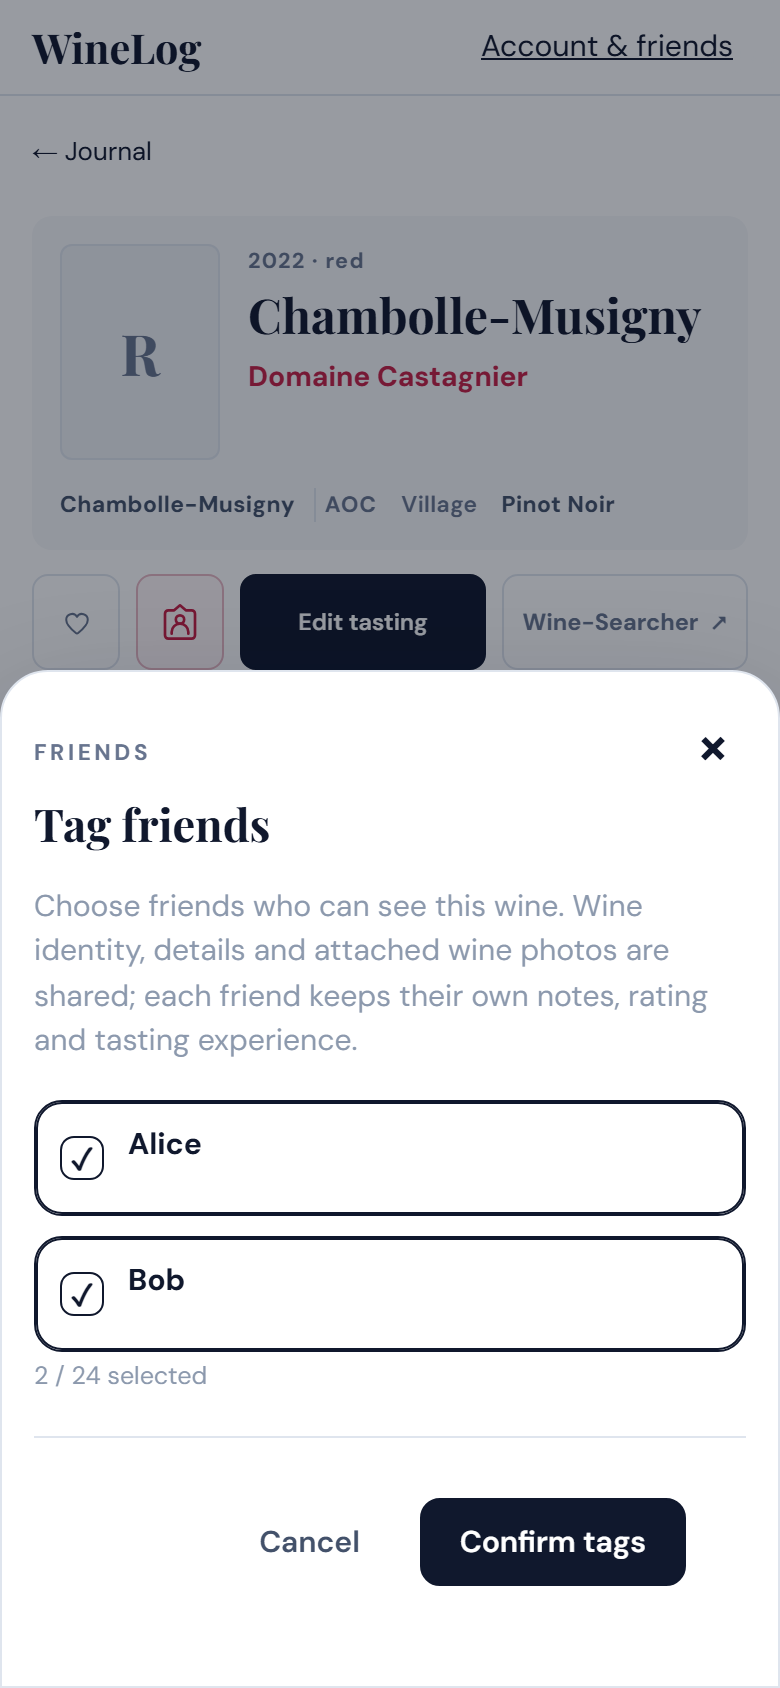
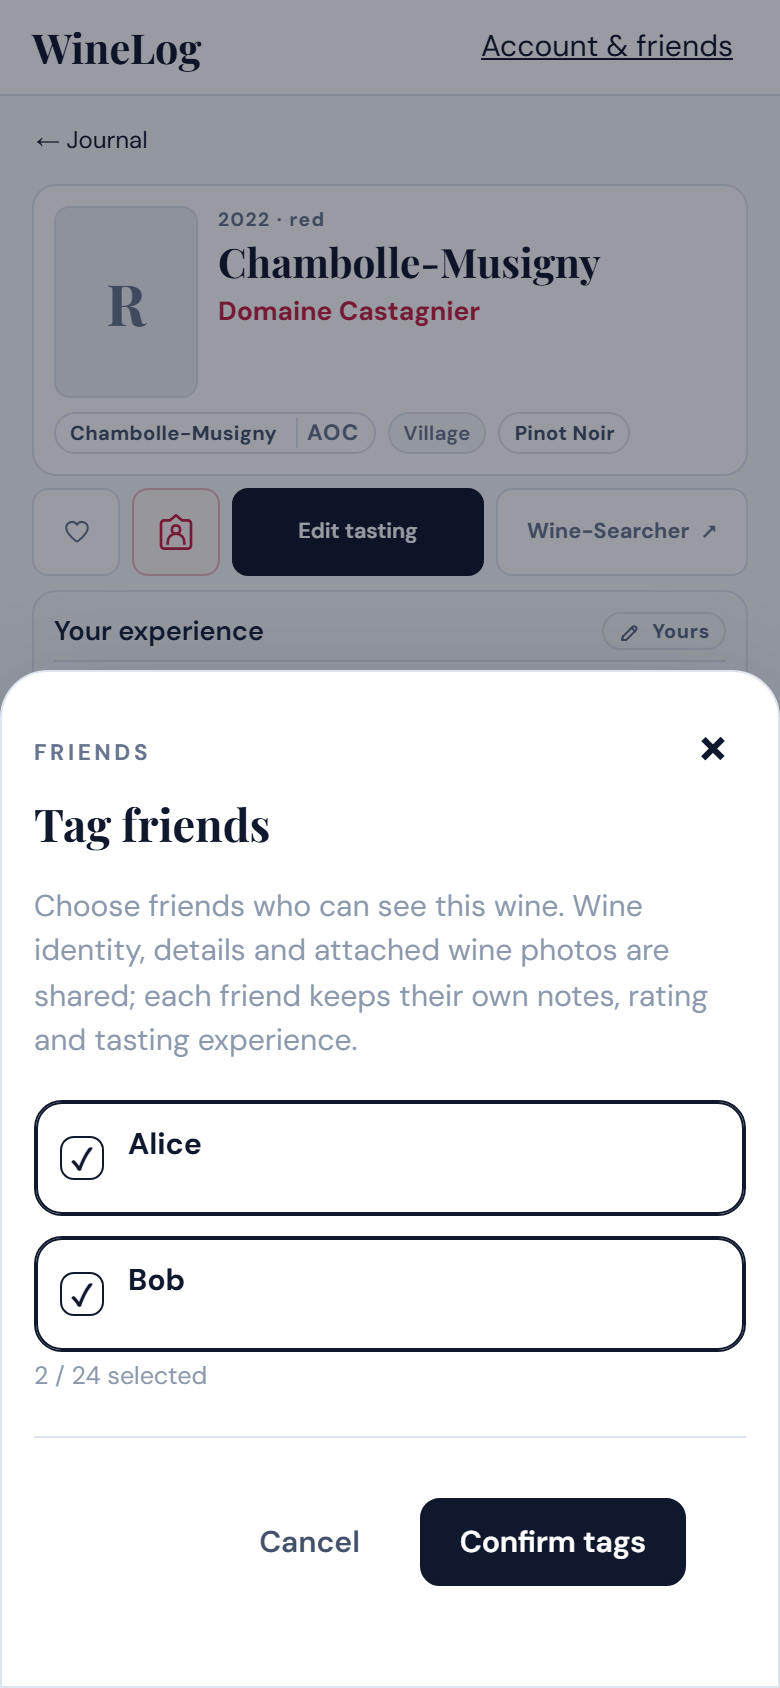
Restore compact wine detail layout from c72632f

diff --git a/src/wineDetailCompact.css b/src/wineDetailCompact.css
@@ -1,38 +1,35 @@
-/* A continuous reading surface gives the mobile facts room without adding
-   another padded card around every section. Controls retain touch targets. */
+/* Mobile wine details use a compact reading layout. Keep controls large enough
+   to tap, and recover space from the header, card padding and fact-row gaps. */
 @media(max-width:700px){
  body:has(main .wine-detail) .topbar{height:calc(48px + var(--app-safe-top,0px))}
- main:has(.wine-detail){padding-top:8px;background:var(--paper)}
- .wine-detail>.back-pill{display:inline-flex;align-items:center;min-height:40px;margin-bottom:12px;padding:4px 0;border:0;background:transparent;font-size:.86rem}
- .wine-detail .wine-identity{padding:14px;border:0;background:var(--ground);border-radius:10px}
- .wine-detail .wine-identity .page-header{gap:14px}
- .wine-detail .wine-identity .page-header-body>h1{font-size:1.6rem;line-height:1.16}
- .wine-detail .wine-identity .page-header-body>.eyebrow{margin-bottom:6px;font-size:.72rem;letter-spacing:.06em}
- .wine-detail .wine-identity .detail-producer{margin:7px 0 0;font-size:.94rem;line-height:1.4}
- .wine-detail .wine-identity .detail-media{width:80px;gap:5px}
+ main:has(.wine-detail){padding-top:4px}
+ .wine-detail>.back-pill{display:inline-flex;align-items:center;min-height:36px;margin-bottom:4px;padding:4px 2px;border:0;background:transparent;font-size:.8rem}
+ .wine-detail .wine-identity{padding:10px;border-radius:12px}
+ .wine-detail .wine-identity .page-header{gap:10px}
+ .wine-detail .wine-identity .page-header-body>h1{font-size:1.35rem;line-height:1.12}
+ .wine-detail .wine-identity .page-header-body>.eyebrow{margin-bottom:3px;font-size:.64rem;letter-spacing:.08em}
+ .wine-detail .wine-identity .detail-producer{margin:4px 0 0;font-size:.88rem;line-height:1.3}
+ .wine-detail .wine-identity .detail-media{width:72px;gap:3px}
  .wine-detail .wine-identity .detail-bottle,
- .wine-detail .wine-identity .detail-media .detail-photo{height:108px}
+ .wine-detail .wine-identity .detail-media .detail-photo{height:96px}
  .wine-detail .wine-identity .detail-bottle,
- .wine-detail .wine-identity .detail-media .detail-photo-button{width:80px;min-height:0;border-radius:6px}
- .wine-detail .detail-photo-count{font-size:.72rem}
- .wine-detail .wine-identity>.detail-pills{margin-top:14px;gap:8px 12px}
- .wine-detail .detail-pills>span{padding:0;border:0;border-radius:0;background:transparent;font-size:.76rem;line-height:1.5}
- .wine-detail .wine-actions{grid-template-columns:44px 44px repeat(2,minmax(0,1fr));gap:8px;margin-top:12px}
+ .wine-detail .wine-identity .detail-media .detail-photo-button{width:72px;min-height:0;border-radius:8px}
+ .wine-detail .detail-photo-count{font-size:.64rem}
+ .wine-detail .wine-identity>.detail-pills{margin-top:7px;gap:4px 6px}
+ .wine-detail .detail-pills>span{padding:2px 7px;font-size:.67rem}
+ .wine-detail .wine-actions{grid-template-columns:44px 44px repeat(2,minmax(0,1fr));gap:6px;margin-top:6px}
  .wine-detail .wine-actions>button,
- .wine-detail .wine-actions>a{min-height:48px;padding:6px 4px;border-radius:8px;font-size:.78rem;line-height:1.3}
+ .wine-detail .wine-actions>a{min-height:44px;padding:5px 4px;border-radius:8px;font-size:.72rem;line-height:1.2}
  .wine-detail .detail-favorite-label,
  .wine-detail .detail-search-prefix{display:none}
  .wine-detail.shared-wine-detail .wine-actions{grid-template-columns:44px 44px minmax(0,1fr)}
- .wine-detail>.detail-section{margin-top:24px;padding:0;border:0;border-radius:0;background:transparent}
- .wine-detail .detail-section>.section-label{margin-bottom:10px;font-family:'Playfair Display',serif;font-size:1.2rem;line-height:1.3}
- .wine-detail .detail-section>.section-label::after{display:none}
- .wine-detail .section-label .provenance-chip{margin-left:auto;padding:0;border:0;background:transparent}
- .wine-detail dl.detail-facts{margin:0}
- .wine-detail dl.detail-facts>div{display:grid;grid-template-columns:minmax(0,.9fr) minmax(0,1.1fr);padding:7px 0;gap:12px;line-height:1.45}
- .wine-detail dl.detail-facts dt{font-size:.82rem;letter-spacing:0;text-transform:none}
- .wine-detail dl.detail-facts dd{font-size:.9rem;text-align:left}
- .wine-detail dl.detail-facts>.detail-fact-paired{display:flex;gap:4px 8px}
- .wine-detail dl.detail-facts>.detail-fact-paired dd{text-align:right}
- .wine-detail .detail-experience-empty{margin:0;line-height:1.5}
- .wine-detail .detail-section .detail-experience-notes{margin:12px 0 0;padding-top:12px;font-family:inherit;font-size:.94rem;line-height:1.55}
+ .wine-detail>.detail-section{margin-top:7px;padding:10px;border-radius:12px}
+ .wine-detail .detail-section>.section-label{margin-bottom:5px;font-size:.9rem}
+ .wine-detail .section-label .provenance-chip{padding:2px 7px}
+ .wine-detail dl.detail-facts{margin:4px 0 0}
+ .wine-detail dl.detail-facts>div{padding:3px 0;line-height:1.4}
+ .wine-detail dl.detail-facts dt{font-size:.7rem;letter-spacing:.02em}
+ .wine-detail dl.detail-facts dd{font-size:.84rem}
+ .wine-detail .detail-experience-empty{margin:4px 0 0}
+ .wine-detail .detail-section .detail-experience-notes{margin:7px 0 0;padding-top:7px;font-size:.94rem;line-height:1.4}
 }

diff --git a/tests/e2e/wine-detail-layout.spec.ts b/tests/e2e/wine-detail-layout.spec.ts
@@ -48,6 +48,9 @@ for(const role of ['owner','member'])for(const route of ['/wines/layout-wine','/
    });
    expect(contained).toBe(true);
    if(width<700){
+    const factBounds=(await facts.boundingBox())!;
+    const navBounds=(await page.getByRole('navigation',{name:'Mobile navigation'}).boundingBox())!;
+    expect(factBounds.y+factBounds.height).toBeLessThan(navBounds.y);
     const actions=await page.locator('.wine-actions>button,.wine-actions>a').evaluateAll(items=>items.map(item=>({top:item.getBoundingClientRect().top,height:item.getBoundingClientRect().height})));
     expect(new Set(actions.map(action=>action.top)).size).toBe(1);
     expect(actions.every(action=>action.height>=44)).toBe(true);

diff --git a/docs/mockups/compact-wine-detail.md b/docs/mockups/compact-wine-detail.md
@@ -2,7 +2,7 @@
 
 Screenshots of the implemented page at a 390 × 844 mobile viewport, using a member account, sample wine data and the no-photo placeholder. The same layout applies to owner accounts and received wines. The reference has been manually confirmed, so the LWIN review controls are hidden.
 
-The mobile page uses a continuous reading surface, larger text, and space between sections, following the comfortable spacing of the supplied reference. Removing separate padded cards saves space without squeezing the text. Type/Alcohol and LWIN7/LWIN11 each share a row. Actions retain accessible touch targets and safe-area spacing.
+The mobile page restores the compact card layout, typography and spacing from commit c72632f. Type/Alcohol and LWIN7/LWIN11 each share a row. Actions retain accessible touch targets and safe-area spacing.
 
 The action row contains Favourite, Tag friends (person icon), Edit tasting, and Wine-Searcher.
 
